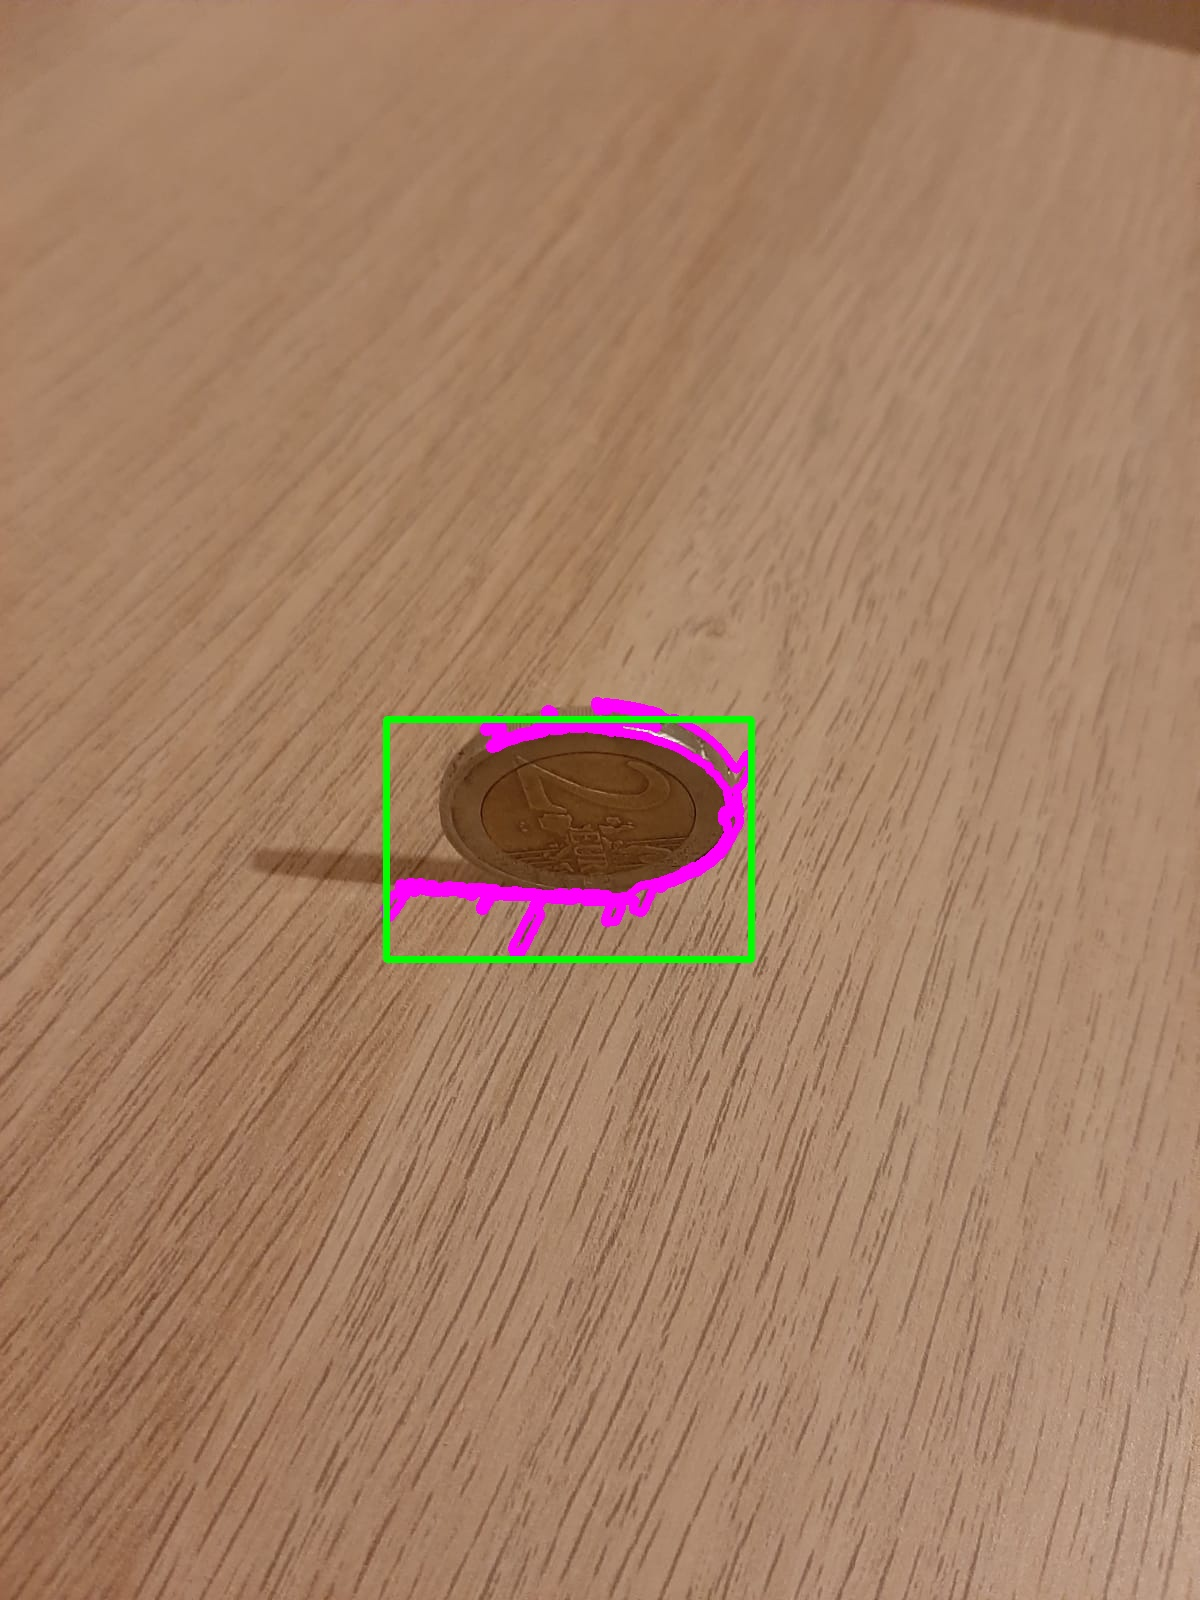
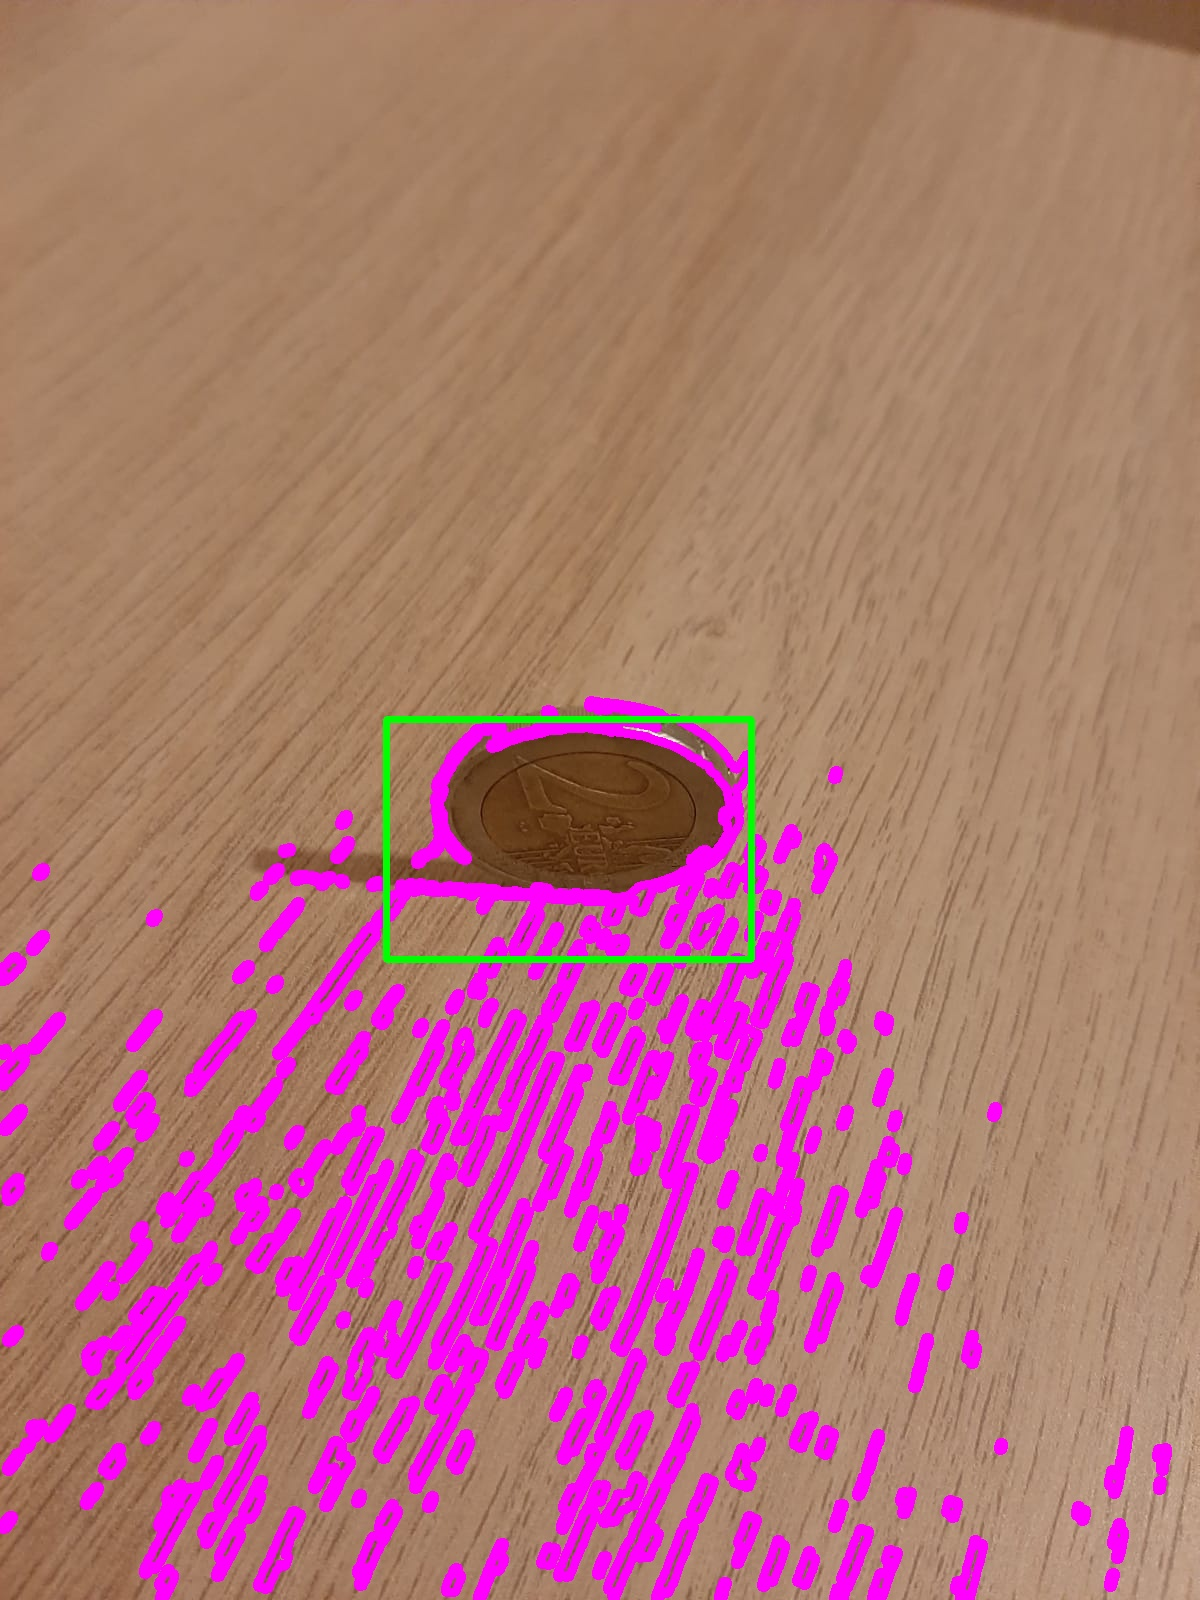
changements

diff --git a/src/first_process/test3.py b/src/first_process/test3.py
@@ -142,17 +142,9 @@ def addSquare(t1):
 
     return t2
 
-def InTab(t1,element):
-    for i in range(0,len(t1)):
-        if(element[0] ==  t1[i][0]):
-            if (element[1] ==  t1[i][1]):
-                if (element[2] ==  t1[i][2]):
-                    if (element[3] ==  t1[i][3]):
-                        return True
-    return False
 
     
-
+#Combine deux carrés
 def CombineSquare(square1,square2):
     x1 = square1[0]
     x1f = square1[2]
@@ -184,10 +176,10 @@ def CombineSquare(square1,square2):
     return (x,y,xf,yf)
     
     
-            
-def getContours(img, imgContour):
+#Affiche les carrés           
+def getContours(img, imgContour,imgNormal):
     contours, hierarchy = cv2.findContours(img, cv2.RETR_EXTERNAL, cv2.CHAIN_APPROX_NONE)
-    #cv2.drawContours(imgContour, contours, -1, (255, 0, 255), 7)
+    cv2.drawContours(imgContour, contours, -1, (255, 0, 255), 7)
     t = []
     ind = 0
     for cnt in contours:
@@ -210,19 +202,24 @@ def getContours(img, imgContour):
 
     t3 = checkSquareIn(t)
     t3 = addSquare(t3)
+    images = []
     for c in range(len(t3)):
         cv2.rectangle(imgContour, (t3[c][0],t3[c][1]),(t3[c][2],t3[c][3]) , (0, 255, 0), 5)
+        images.append(imgNormal[t3[c][1]:t3[c][3],t3[c][0]:t3[c][2]] )
         #cv2.rectangle(imgContour, (x, y), (x + w, y + h), (0, 255, 0), 5)
+    return images
 
 
 # Load image
 def check_empty_img(arg):
-    img = cv2.imread(r"C:\Users\Vincent\Documents\L3\S6\Image\Projet\img_proj\img_proj\\" + str(arg) + ".jpeg")
+    img = cv2.imread(r"D:\COur\img_proj\\" + str(arg) + ".jpeg")
     if img is None:
-        img = cv2.imread(r"C:\Users\Vincent\Documents\L3\S6\Image\Projet\img_proj\img_proj\\" + str(arg) + ".jpg")
+        img = cv2.imread(r"D:\COur\img_proj\\" + str(arg) + ".jpg")
     if img is None:
-        img = cv2.imread(r"C:\Users\Vincent\Documents\L3\S6\Image\Projet\img_proj\img_proj\\" + str(arg) + ".png")
+        img = cv2.imread(r"D:\COur\img_proj\\" + str(arg) + ".png")
     return img
+
+
 
 for a in range(0, 60,2):
     threshold1 = 50 #20
@@ -239,7 +236,11 @@ for a in range(0, 60,2):
     imgCanny = cv2.Canny(imgGray, threshold1, threshold2)
     imgDil = cv2.dilate(imgCanny, kernel, iterations=1)
 
-    getContours(imgDil, imgContour)
+    images = getContours(imgDil, imgContour,img)
+    for i in range(len(images)):
+        cv2.imshow("image",images[i])
+        cv2.waitKey(0) 
+        cv2.destroyAllWindows() 
 
 
     # cv2.imshow("1 normal",img)
